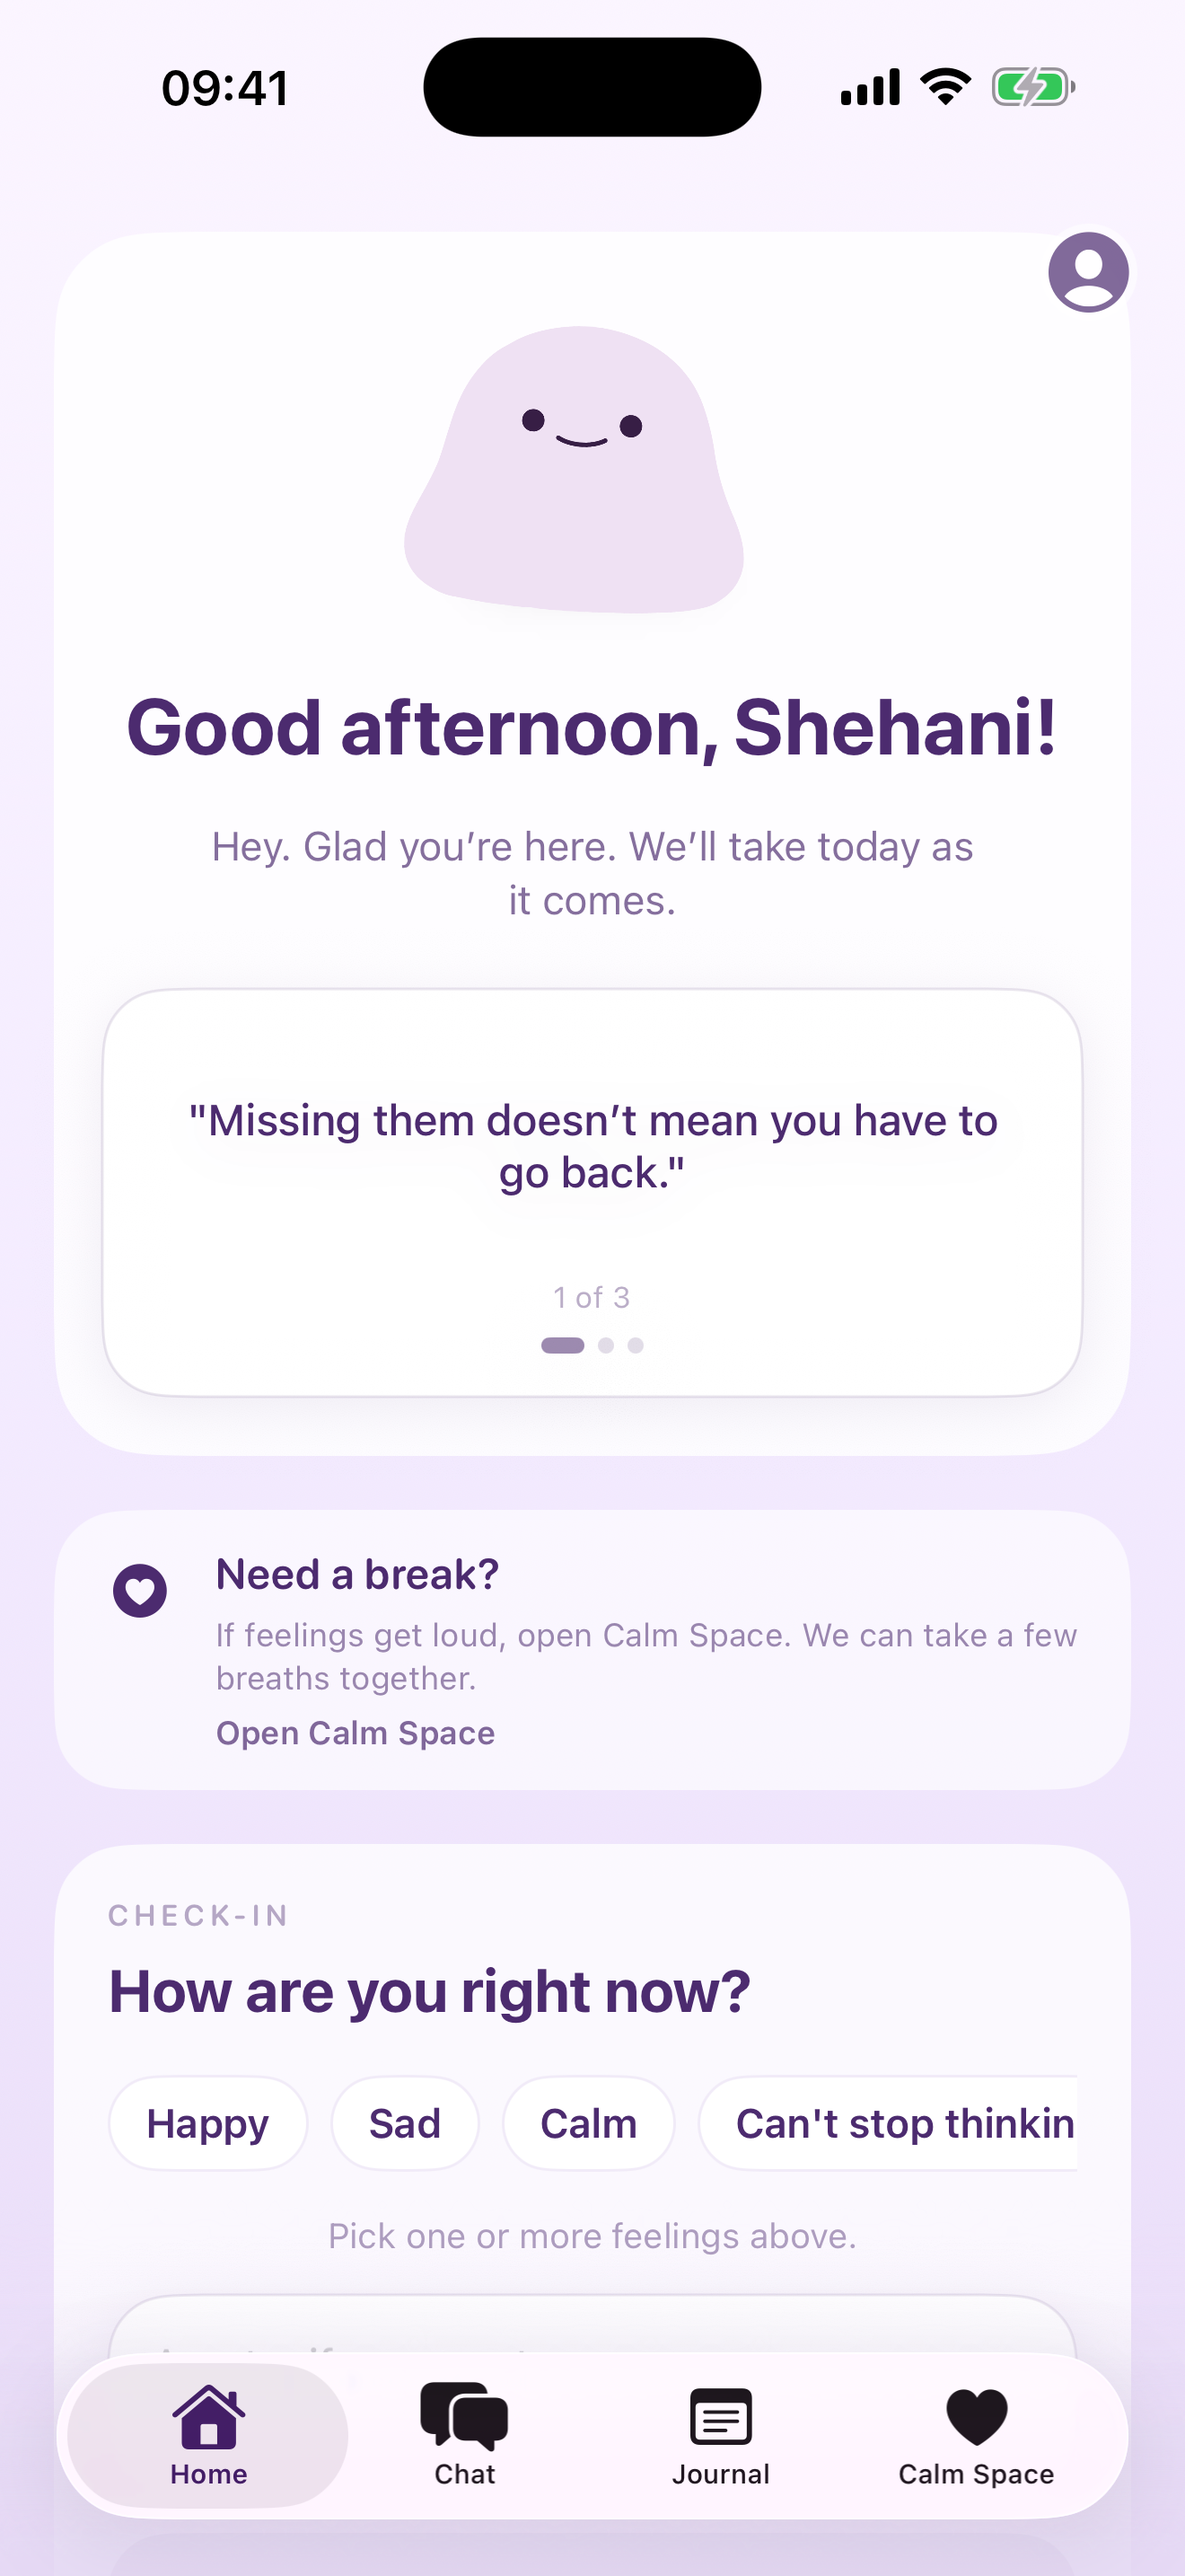
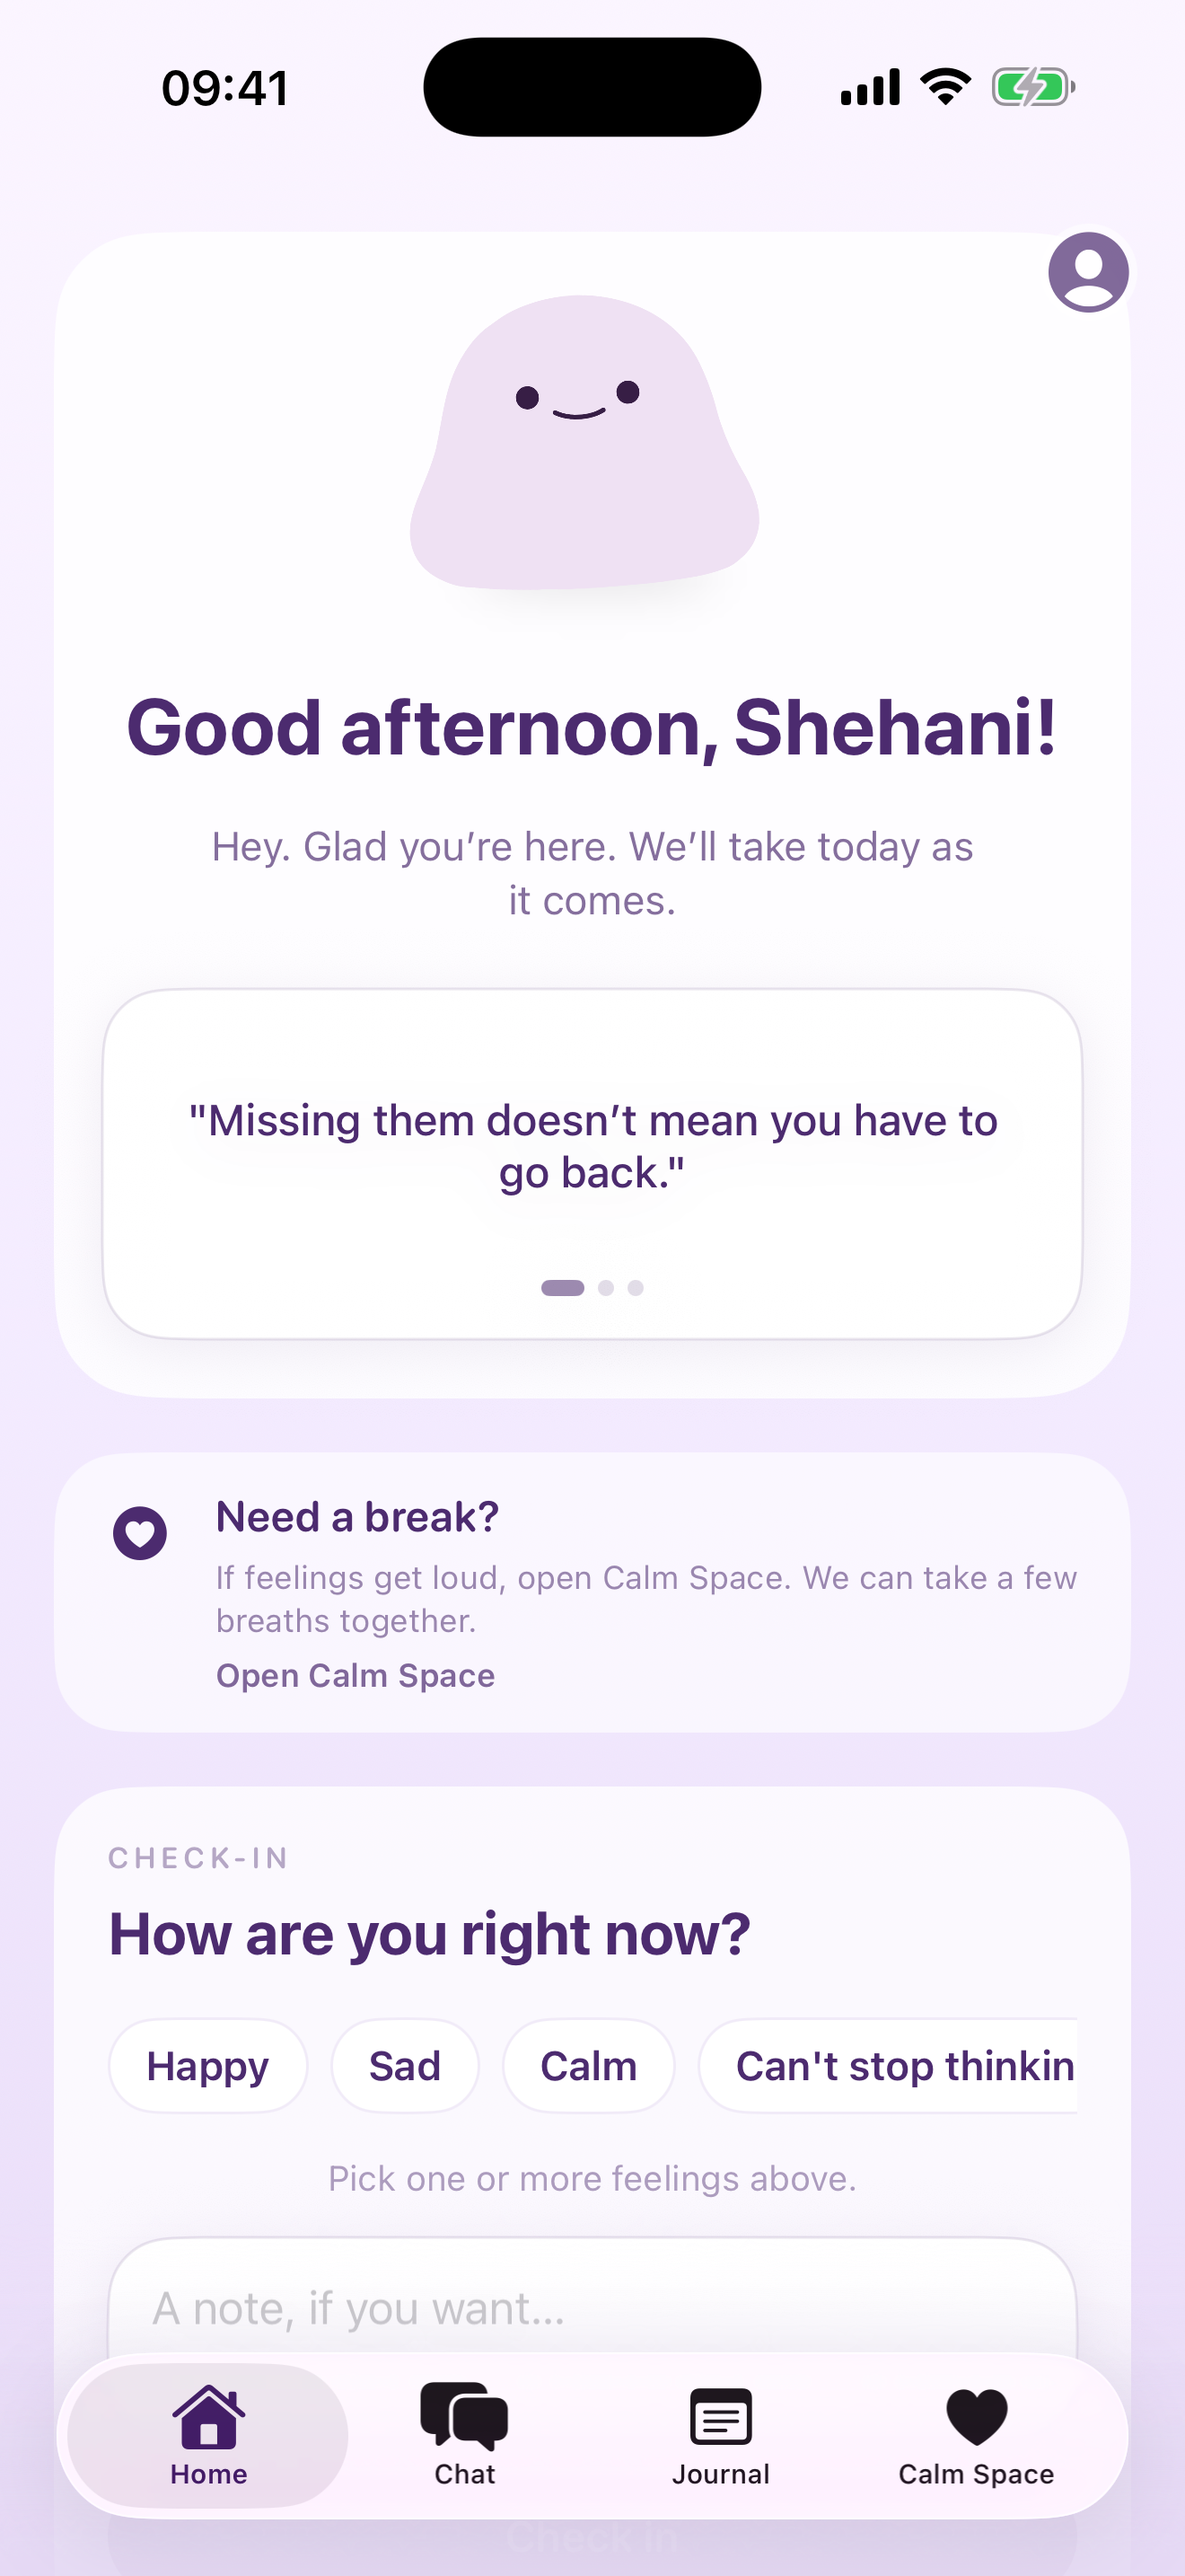
Swipe between tabs, and distance the listing from a similar app
Navigation:
- Sideways drags move between Home, Chat, Journal, and Calm Space
- Only clearly horizontal drags qualify, and never while the keyboard is up
- TabSwipeGate lets a horizontally scrolling row veto the gesture, so the
  check-in chips still slide instead of changing tabs
- Journal prompts and chat starters now wrap, so no chip is cut mid-word
- The Home reminder card advances on tap rather than its own page swipe

App Store metadata:
- Remove promotional copy that mirrored a similarly named app
- Subtitle now describes the urge-pause instead of the generic category
- Review notes argue differentiation by naming the features that have no
  counterpart in that app
- Recapture Home, Chat, and Journal screenshots

diff --git a/Mune/Views/Components/AffirmationView.swift b/Mune/Views/Components/AffirmationView.swift
@@ -13,33 +13,23 @@ struct AffirmationView: View {
 
     var body: some View {
         VStack(spacing: 12) {
-            TabView(selection: $selectedAffirmationIndex) {
+            // Tap rather than swipe, so a sideways drag here still changes tabs.
+            Text("\"\(affirmations[selectedAffirmationIndex])\"")
+                .font(.system(size: 16, weight: .medium))
+                .multilineTextAlignment(.center)
+                .foregroundStyle(Color.brandPrimary)
+                .fixedSize(horizontal: false, vertical: true)
+                .padding(.horizontal, 18)
+                .frame(maxWidth: .infinity, minHeight: quoteHeight, alignment: .center)
+                .id(selectedAffirmationIndex)
+                .transition(.opacity)
+                .accessibilityLabel(affirmations[selectedAffirmationIndex])
+
+            HStack(spacing: 5) {
                 ForEach(affirmations.indices, id: \.self) { index in
-                    Text("\"\(affirmations[index])\"")
-                        .font(.system(size: 16, weight: .medium))
-                        .multilineTextAlignment(.center)
-                        .foregroundStyle(Color.brandPrimary)
-                        .fixedSize(horizontal: false, vertical: true)
-                        .padding(.horizontal, 18)
-                        .frame(maxWidth: .infinity, minHeight: quoteHeight, alignment: .center)
-                        .tag(index)
-                        .accessibilityLabel(affirmations[index])
-                }
-            }
-            .tabViewStyle(.page(indexDisplayMode: .never))
-            .frame(height: quoteHeight)
-
-            VStack(spacing: 8) {
-                Text("\(selectedAffirmationIndex + 1) of \(affirmations.count)")
-                    .font(.caption2)
-                    .foregroundStyle(Color.brandPrimary.opacity(0.38))
-
-                HStack(spacing: 5) {
-                    ForEach(affirmations.indices, id: \.self) { index in
-                        Capsule()
-                            .fill(index == selectedAffirmationIndex ? Color.brandPrimary.opacity(0.55) : Color.brandPrimary.opacity(0.16))
-                            .frame(width: index == selectedAffirmationIndex ? 16 : 6, height: 6)
-                    }
+                    Capsule()
+                        .fill(index == selectedAffirmationIndex ? Color.brandPrimary.opacity(0.55) : Color.brandPrimary.opacity(0.16))
+                        .frame(width: index == selectedAffirmationIndex ? 16 : 6, height: 6)
                 }
             }
         }
@@ -56,8 +46,15 @@ struct AffirmationView: View {
                 .stroke(Color.brandPrimary.opacity(0.12), lineWidth: 1)
         )
         .shadow(color: Color.brandPrimary.opacity(0.08), radius: 10, x: 0, y: 4)
-        .accessibilityElement(children: .contain)
-        .accessibilityHint("Swipe left or right for another reminder")
+        .contentShape(Rectangle())
+        .onTapGesture {
+            withAnimation(.easeInOut(duration: 0.22)) {
+                selectedAffirmationIndex = (selectedAffirmationIndex + 1) % affirmations.count
+            }
+        }
+        .accessibilityElement(children: .combine)
+        .accessibilityAddTraits(.isButton)
+        .accessibilityHint("Tap for another reminder")
     }
 }
 

diff --git a/Mune/Views/RootTabView.swift b/Mune/Views/RootTabView.swift
@@ -7,13 +7,18 @@
 
 import SwiftUI
 import SwiftData
+import Combine
 
 struct RootTabView: View {
     @Environment(\.modelContext) private var modelContext
+    @Environment(\.tabSwipeGate) private var swipeGate
     @AppStorage("userName") private var userName = "Friend"
     @AppStorage("activeProfileID") private var activeProfileID = ""
     @State private var selectedTab: Int = 0
     @State private var navigator = RecoveryNavigator()
+    @State private var isKeyboardVisible = false
+
+    private static let lastTabIndex = 3
 
     // Keep VMs in State so they are only created once and don't leak memory on re-renders
     @State private var homeVM: HomeViewModel?
@@ -55,6 +60,7 @@ struct RootTabView: View {
                 .tint(Color.brandPrimary)
                 .toolbarBackground(.ultraThinMaterial, for: .tabBar)
                 .environment(\.recoveryNavigator, navigator)
+                .simultaneousGesture(tabSwipeGesture)
             } else {
                 ProgressView() // Show loading until VMs initialize
             }
@@ -82,6 +88,12 @@ struct RootTabView: View {
             selectedTab = tab
             navigator.requestedTab = nil
         }
+        .onReceive(NotificationCenter.default.publisher(for: UIResponder.keyboardWillShowNotification)) { _ in
+            isKeyboardVisible = true
+        }
+        .onReceive(NotificationCenter.default.publisher(for: UIResponder.keyboardWillHideNotification)) { _ in
+            isKeyboardVisible = false
+        }
         .onAppear {
             LocalProfileStore.migrateLegacyIfNeeded()
             setupViewModels(force: false)
@@ -99,6 +111,31 @@ struct RootTabView: View {
             chatVM = nil
             journalVM = nil
             setupViewModels(force: true)
+        }
+    }
+
+    /// Horizontal swipe between the four tabs. Runs alongside the tabs' own gestures,
+    /// so it only fires for drags that are clearly sideways and not text selection.
+    private var tabSwipeGesture: some Gesture {
+        DragGesture(minimumDistance: 24)
+            .onEnded { value in
+                guard !isKeyboardVisible, !swipeGate.isBlocked else { return }
+
+                let horizontal = value.translation.width
+                let vertical = value.translation.height
+                guard abs(horizontal) > 70,
+                      abs(vertical) < 60,
+                      abs(horizontal) > abs(vertical) * 2 else { return }
+
+                moveTab(by: horizontal < 0 ? 1 : -1)
+            }
+    }
+
+    private func moveTab(by offset: Int) {
+        let next = selectedTab + offset
+        guard next >= 0, next <= Self.lastTabIndex else { return }
+        withAnimation(.easeOut(duration: 0.2)) {
+            selectedTab = next
         }
     }
 

diff --git a/Mune/Views/JournalView.swift b/Mune/Views/JournalView.swift
@@ -148,29 +148,27 @@ struct JournalView: View {
                     .fixedSize(horizontal: false, vertical: true)
             }
 
-            ScrollView(.horizontal, showsIndicators: false) {
-                HStack(spacing: 8) {
-                    ForEach(prompts) { prompt in
-                        Button {
-                            applyJournalPrompt(prompt)
-                        } label: {
-                            MuneChipLabel(
-                                title: prompt.title,
-                                isSelected: isPromptSelected(prompt),
-                                showsCheckmark: false,
-                                selectedForeground: .brandPrimary,
-                                unselectedForeground: .brandPrimary,
-                                selectedFill: Color.sageGreen.opacity(0.38),
-                                unselectedFill: Color.white
-                            )
-                        }
-                        .buttonStyle(.plain)
-                        .accessibilityLabel(prompt.title)
-                        .accessibilityHint("Uses this journal prompt")
+            ChipFlowLayout(spacing: 8) {
+                ForEach(prompts) { prompt in
+                    Button {
+                        applyJournalPrompt(prompt)
+                    } label: {
+                        MuneChipLabel(
+                            title: prompt.title,
+                            isSelected: isPromptSelected(prompt),
+                            showsCheckmark: false,
+                            selectedForeground: .brandPrimary,
+                            unselectedForeground: .brandPrimary,
+                            selectedFill: Color.sageGreen.opacity(0.38),
+                            unselectedFill: Color.white
+                        )
                     }
+                    .buttonStyle(.plain)
+                    .accessibilityLabel(prompt.title)
+                    .accessibilityHint("Uses this journal prompt")
                 }
-                .padding(.vertical, 2)
             }
+            .padding(.vertical, 2)
 
             TextEditor(text: $vm.journalText)
                 .focused($focusedField, equals: .journal)

diff --git a/Mune/Views/ChatView.swift b/Mune/Views/ChatView.swift
@@ -112,24 +112,22 @@ struct ChatView: View {
                 .padding(.bottom, 8)
             }
 
-            ScrollView(.horizontal, showsIndicators: false) {
-                HStack(spacing: 8) {
-                    ForEach(ChatViewModel.starterChips, id: \.self) { chip in
-                        Button {
-                            vm.applyStarterChip(chip)
-                        } label: {
-                            Text(chip)
-                                .font(.caption.weight(.semibold))
-                                .foregroundStyle(Color.brandPrimary)
-                                .padding(.horizontal, 12)
-                                .padding(.vertical, 8)
-                                .background(Color.brandPrimary.opacity(0.10), in: Capsule())
-                        }
-                        .buttonStyle(.plain)
+            ChipFlowLayout(spacing: 8) {
+                ForEach(ChatViewModel.starterChips, id: \.self) { chip in
+                    Button {
+                        vm.applyStarterChip(chip)
+                    } label: {
+                        Text(chip)
+                            .font(.caption.weight(.semibold))
+                            .foregroundStyle(Color.brandPrimary)
+                            .padding(.horizontal, 12)
+                            .padding(.vertical, 8)
+                            .background(Color.brandPrimary.opacity(0.10), in: Capsule())
                     }
+                    .buttonStyle(.plain)
                 }
-                .padding(.horizontal)
             }
+            .padding(.horizontal)
             .padding(.top, 8)
 
             HStack(alignment: .bottom, spacing: 10) {

diff --git a/Mune/Views/Components/TabSwipeGate.swift b/Mune/Views/Components/TabSwipeGate.swift
@@ -1,0 +1,51 @@
+//
+//  TabSwipeGate.swift
+//  Mune
+//
+//  Lets a horizontally scrolling row veto the swipe-between-tabs gesture,
+//  so flicking chips sideways scrolls the row instead of changing tabs.
+//
+
+import SwiftUI
+
+/// Deliberately not observable: this is read inside a gesture callback and
+/// must not trigger view updates while a drag is in flight.
+final class TabSwipeGate {
+    private var blockedUntil: Date = .distantPast
+
+    var isBlocked: Bool { Date() < blockedUntil }
+
+    func block(for seconds: TimeInterval = 0.45) {
+        blockedUntil = Date().addingTimeInterval(seconds)
+    }
+}
+
+private struct TabSwipeGateKey: EnvironmentKey {
+    static let defaultValue = TabSwipeGate()
+}
+
+extension EnvironmentValues {
+    var tabSwipeGate: TabSwipeGate {
+        get { self[TabSwipeGateKey.self] }
+        set { self[TabSwipeGateKey.self] = newValue }
+    }
+}
+
+extension View {
+    /// Mark a horizontally scrolling row so sideways drags there never change tabs.
+    func blocksTabSwipe() -> some View {
+        modifier(BlocksTabSwipeModifier())
+    }
+}
+
+private struct BlocksTabSwipeModifier: ViewModifier {
+    @Environment(\.tabSwipeGate) private var gate
+
+    func body(content: Content) -> some View {
+        content.simultaneousGesture(
+            DragGesture(minimumDistance: 6)
+                .onChanged { _ in gate.block() }
+                .onEnded { _ in gate.block() }
+        )
+    }
+}

diff --git a/Mune/Views/Components/MoodPicker.swift b/Mune/Views/Components/MoodPicker.swift
@@ -25,6 +25,7 @@ struct MoodPicker: View {
             }
             .padding(.vertical, 2)
         }
+        .blocksTabSwipe()
     }
 
     private func toggle(_ mood: String) {
